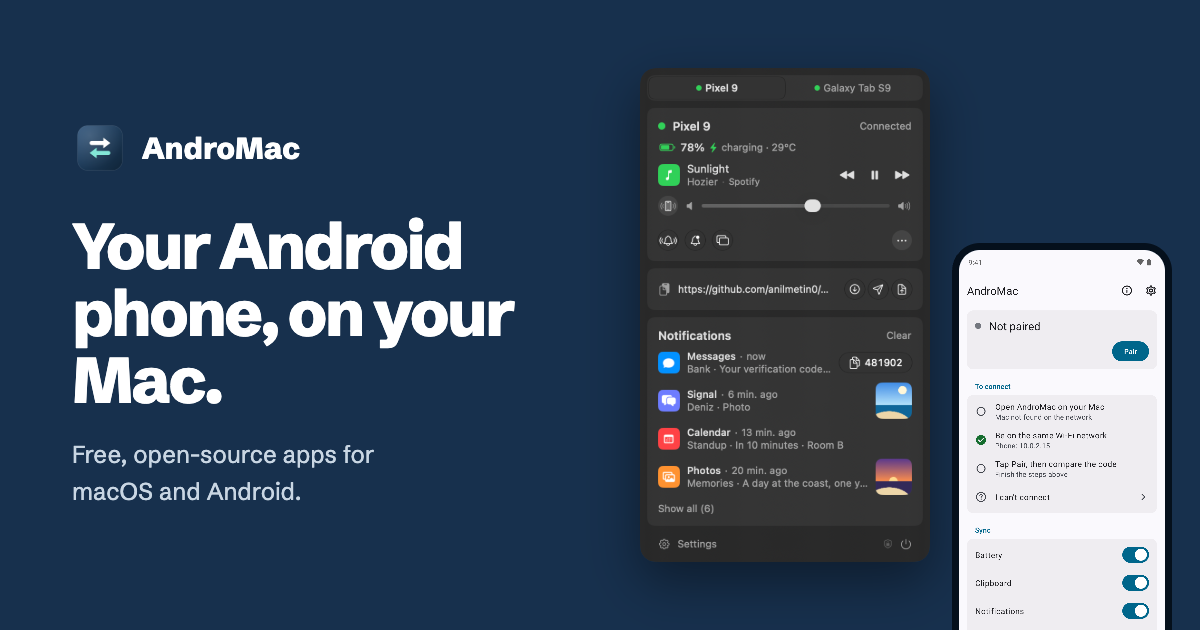
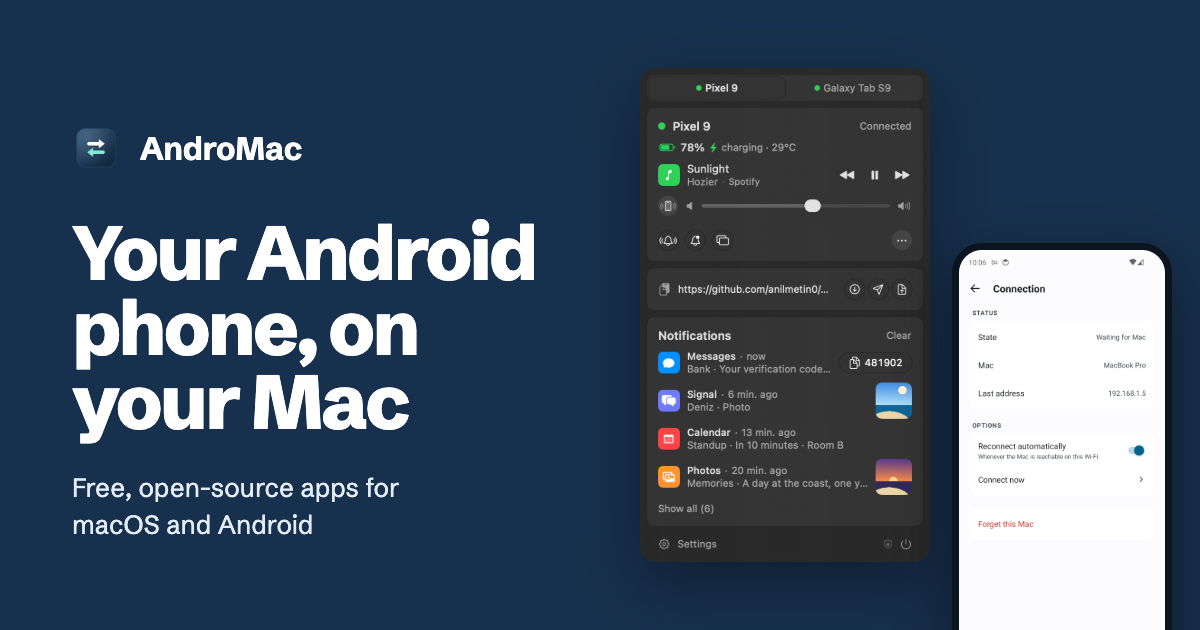
Refresh the link preview image

diff --git a/og/og.html b/og/og.html
@@ -1,0 +1,30 @@
+<!doctype html>
+<!-- Social preview (images/og.png). Render at exactly 1200x630, e.g. Playwright: viewport 1200x630, screenshot to ../images/og.png -->
+<html lang="en">
+<head>
+<meta charset="utf-8">
+<style>
+  @font-face { font-family: "Schibsted Grotesk"; src: url("../fonts/schibsted-latin.woff2") format("woff2"); font-weight: 400 900; }
+  * { box-sizing: border-box; margin: 0; }
+  html, body { width: 1200px; height: 630px; overflow: hidden; }
+  body { position: relative; background: #17304d; color: #ffffff; font-family: "Schibsted Grotesk", sans-serif; }
+  .text { position: absolute; left: 72px; top: 124px; width: 520px; }
+  .brand { display: flex; align-items: center; gap: 20px; font-size: 32px; font-weight: 700; letter-spacing: -.01em; }
+  .brand img { width: 48px; height: 48px; }
+  h1 { margin-top: 44px; font-size: 76px; line-height: .98; font-weight: 800; letter-spacing: -.035em; }
+  p { max-width: 380px; margin-top: 30px; font-size: 26px; line-height: 1.42; color: #e4edf5; }
+  .panel { position: absolute; left: 640px; top: 68px; width: 290px; border-radius: 16px; box-shadow: 0 24px 60px rgba(0, 0, 0, .35); }
+  .phone { position: absolute; left: 952px; top: 243px; width: 220px; padding: 7px; border-radius: 30px; background: #0b1520; box-shadow: 0 24px 60px rgba(0, 0, 0, .45); }
+  .phone img { display: block; width: 100%; border-radius: 23px; }
+</style>
+</head>
+<body>
+  <div class="text">
+    <div class="brand"><img src="../images/icon.png" alt="">AndroMac</div>
+    <h1>Your Android phone, on your Mac</h1>
+    <p>Free, open-source apps for macOS and Android</p>
+  </div>
+  <img class="panel" src="../images/macos-panel.png" alt="">
+  <div class="phone"><img src="../images/android-connection.png" alt=""></div>
+</body>
+</html>

diff --git a/tr/index.html b/tr/index.html
@@ -14,7 +14,7 @@
   <meta property="og:title" content="AndroMac: Android telefonun, Mac'inde">
   <meta property="og:description" content="Android telefonunun bildirimleri, panosu, dosyaları ve ekranı Wi-Fi üzerinden Mac'inde.">
   <meta property="og:url" content="https://anilmetin0.github.io/AndroMac/tr/">
-  <meta property="og:image" content="https://anilmetin0.github.io/AndroMac/images/og.png">
+  <meta property="og:image" content="https://anilmetin0.github.io/AndroMac/images/og.png?v=2">
   <meta property="og:image:width" content="1200">
   <meta property="og:image:height" content="630">
   <meta property="og:image:alt" content="Mac'te AndroMac menü çubuğu paneli, yanında telefondaki AndroMac uygulaması.">

diff --git a/index.html b/index.html
@@ -15,7 +15,7 @@
   <meta property="og:title" content="AndroMac: your Android phone on your Mac">
   <meta property="og:description" content="Notifications, clipboard, files and screen mirroring over Wi-Fi.">
   <meta property="og:url" content="https://anilmetin0.github.io/AndroMac/">
-  <meta property="og:image" content="https://anilmetin0.github.io/AndroMac/images/og.png">
+  <meta property="og:image" content="https://anilmetin0.github.io/AndroMac/images/og.png?v=2">
   <meta property="og:image:width" content="1200">
   <meta property="og:image:height" content="630">
   <meta property="og:image:alt" content="The AndroMac menu-bar panel on a Mac next to the AndroMac app on an Android phone.">
